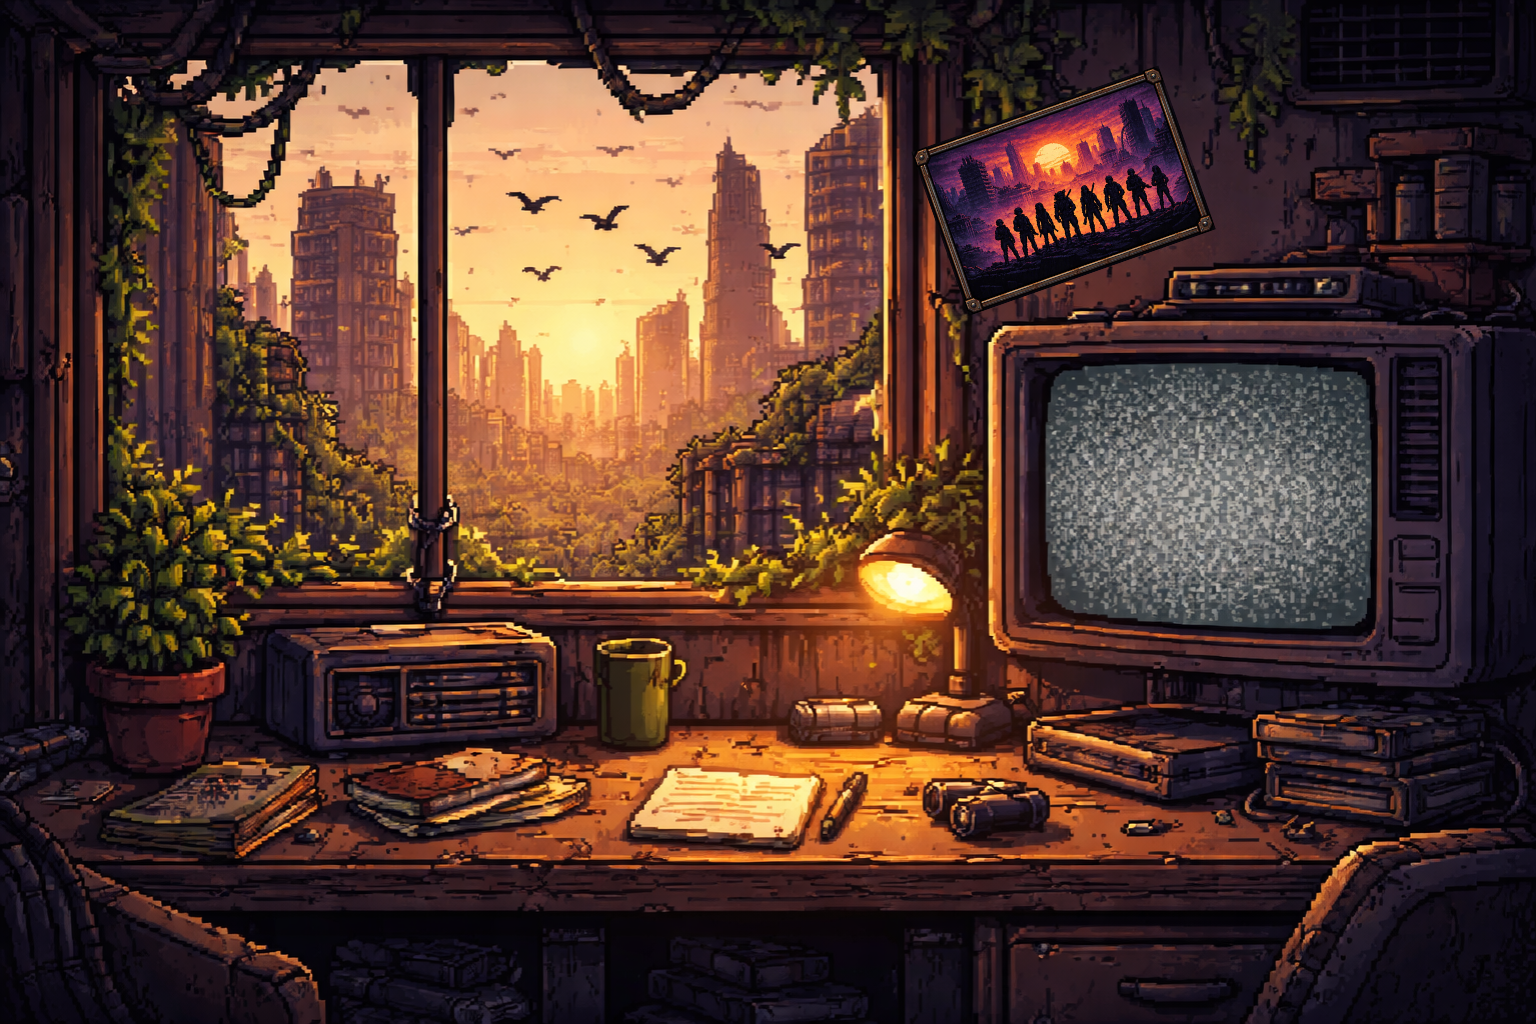
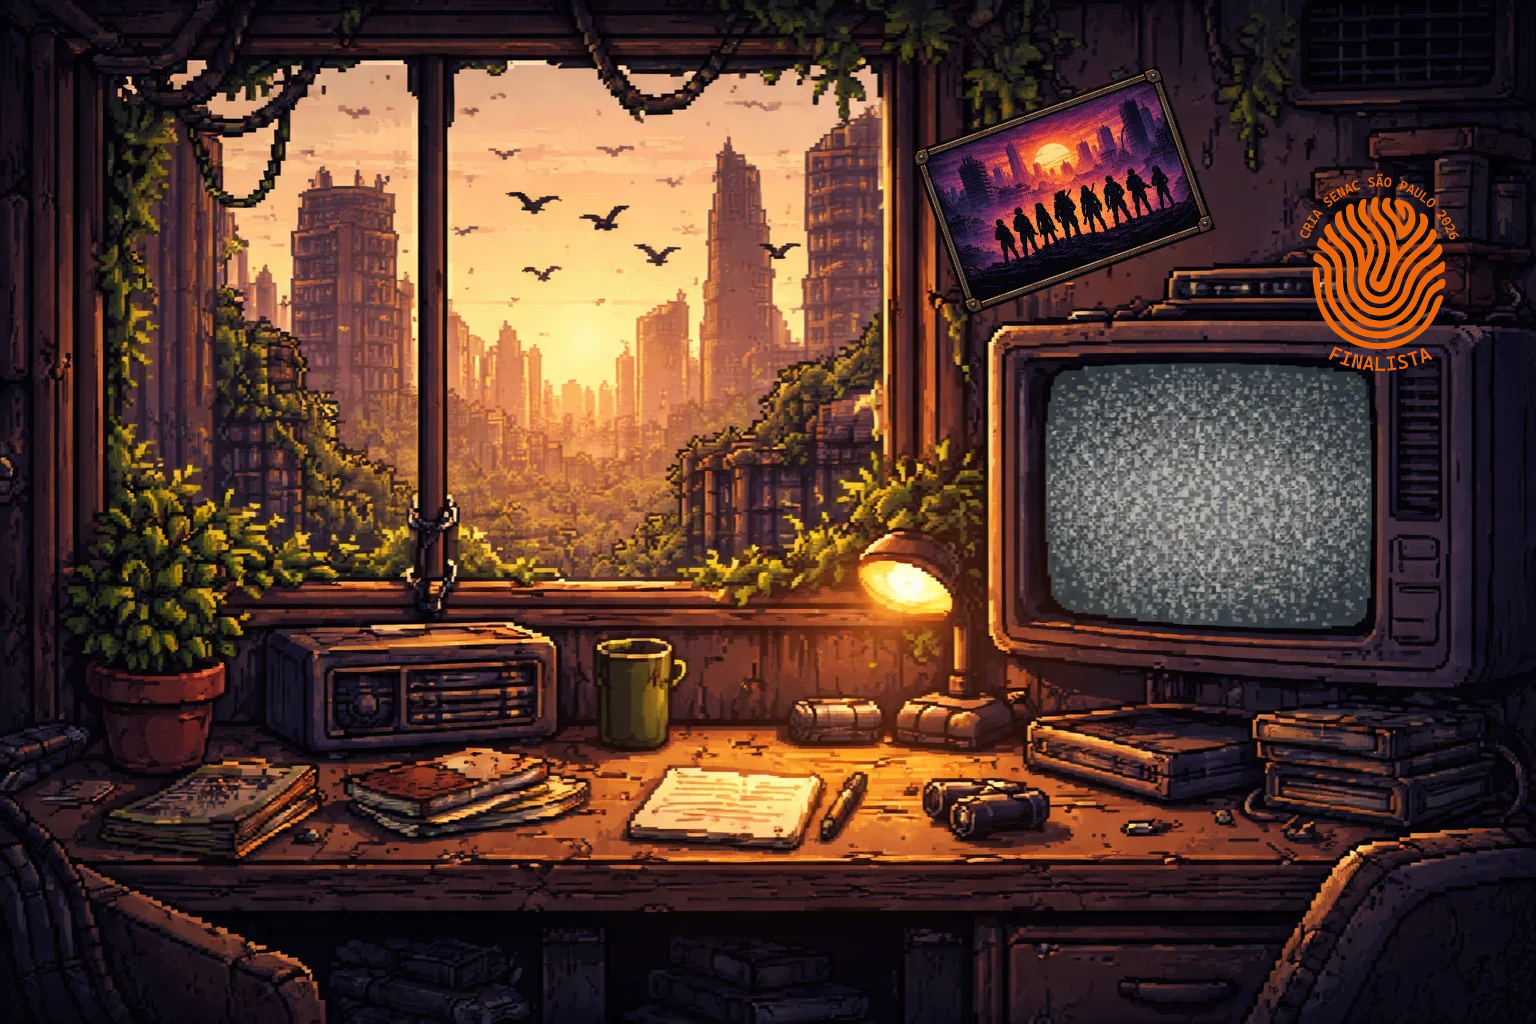
add Cria Seal
restaurados os creditos, add o selo de finalista no background

Changed region(s): [[0.8438, 0.1562, 0.9375, 0.375], [0.6562, 0.1875, 0.75, 0.25]]

diff --git a/index.html b/index.html
@@ -53,7 +53,7 @@
 
         <button class="fechar-popup" onclick="fecharCreditos()">✕</button>
 
-        <!-- <div class="credito-box">
+        <div class="credito-box">
           <h1 class="gren">DEV FRONT DO JOGO</h1>
           <p class="geral-color2">(Github)</p>
           <a href="https://github.com/bryan7777777" target="_blank">
@@ -62,8 +62,6 @@
           <a href="https://github.com/TiaNemora" target="_blank">
             <p class="dev geral-color">TiaNemora</p>
           </a>
-          <p class="geral-color-alert">(Removido devido a participação do projeto no CRIA senac 2026)</p>
-          <p class="geral-color-alert">(Os autores do projeto foram ocultados devido o regulamento do CRIA)</p>
         </div>
 
         <div class="credito-box">
@@ -82,9 +80,7 @@
           <a href="https://github.com/Jakosjimn" target="_blank">
             <p class="dev geral-color">Jakosjimn</p>
           </a>
-          <p class="geral-color-alert">(Removido devido a participação do projeto no CRIA senac 2026)</p>
-          <p class="geral-color-alert">(Os autores do projeto foram ocultados devido o regulamento do CRIA)</p>
-        </div> -->
+        </div>
 
         <div class="credito-box">
           <h1 class="purple">TRILHA SONORA</h1>
